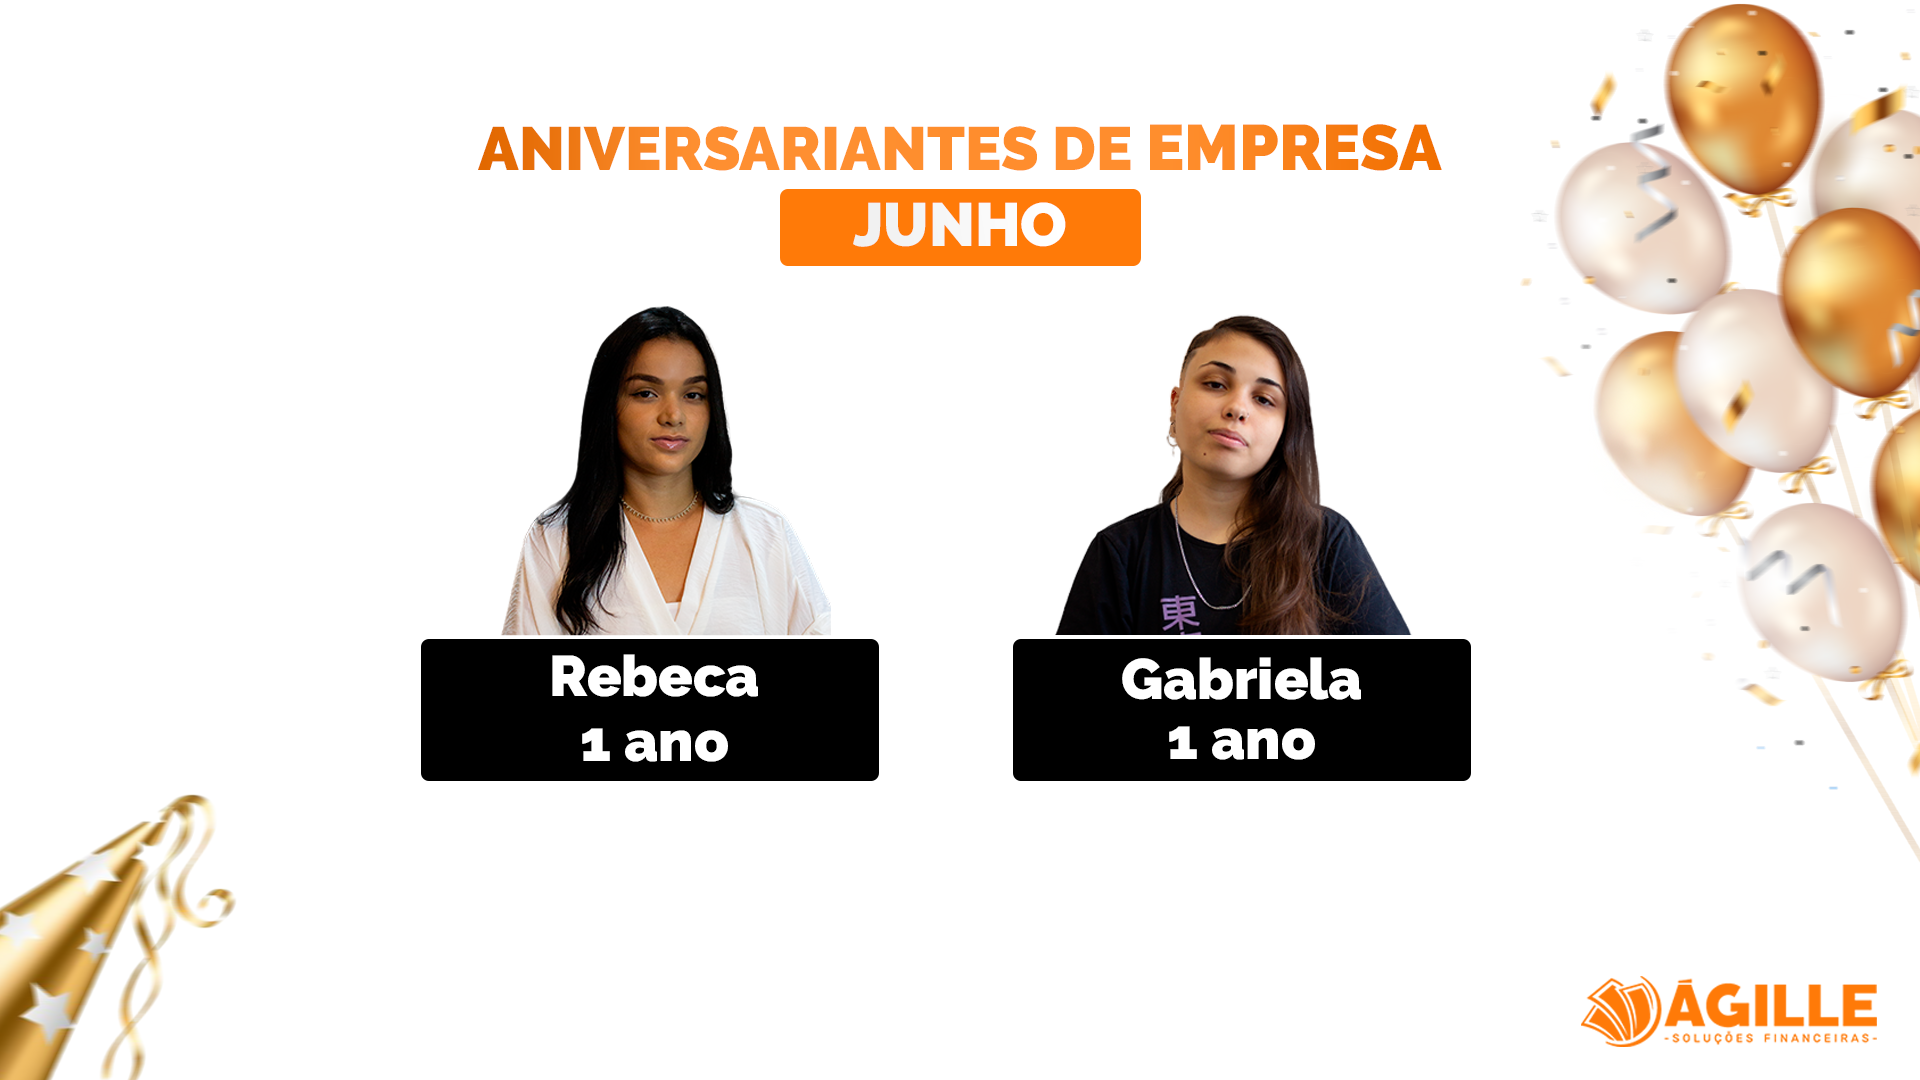
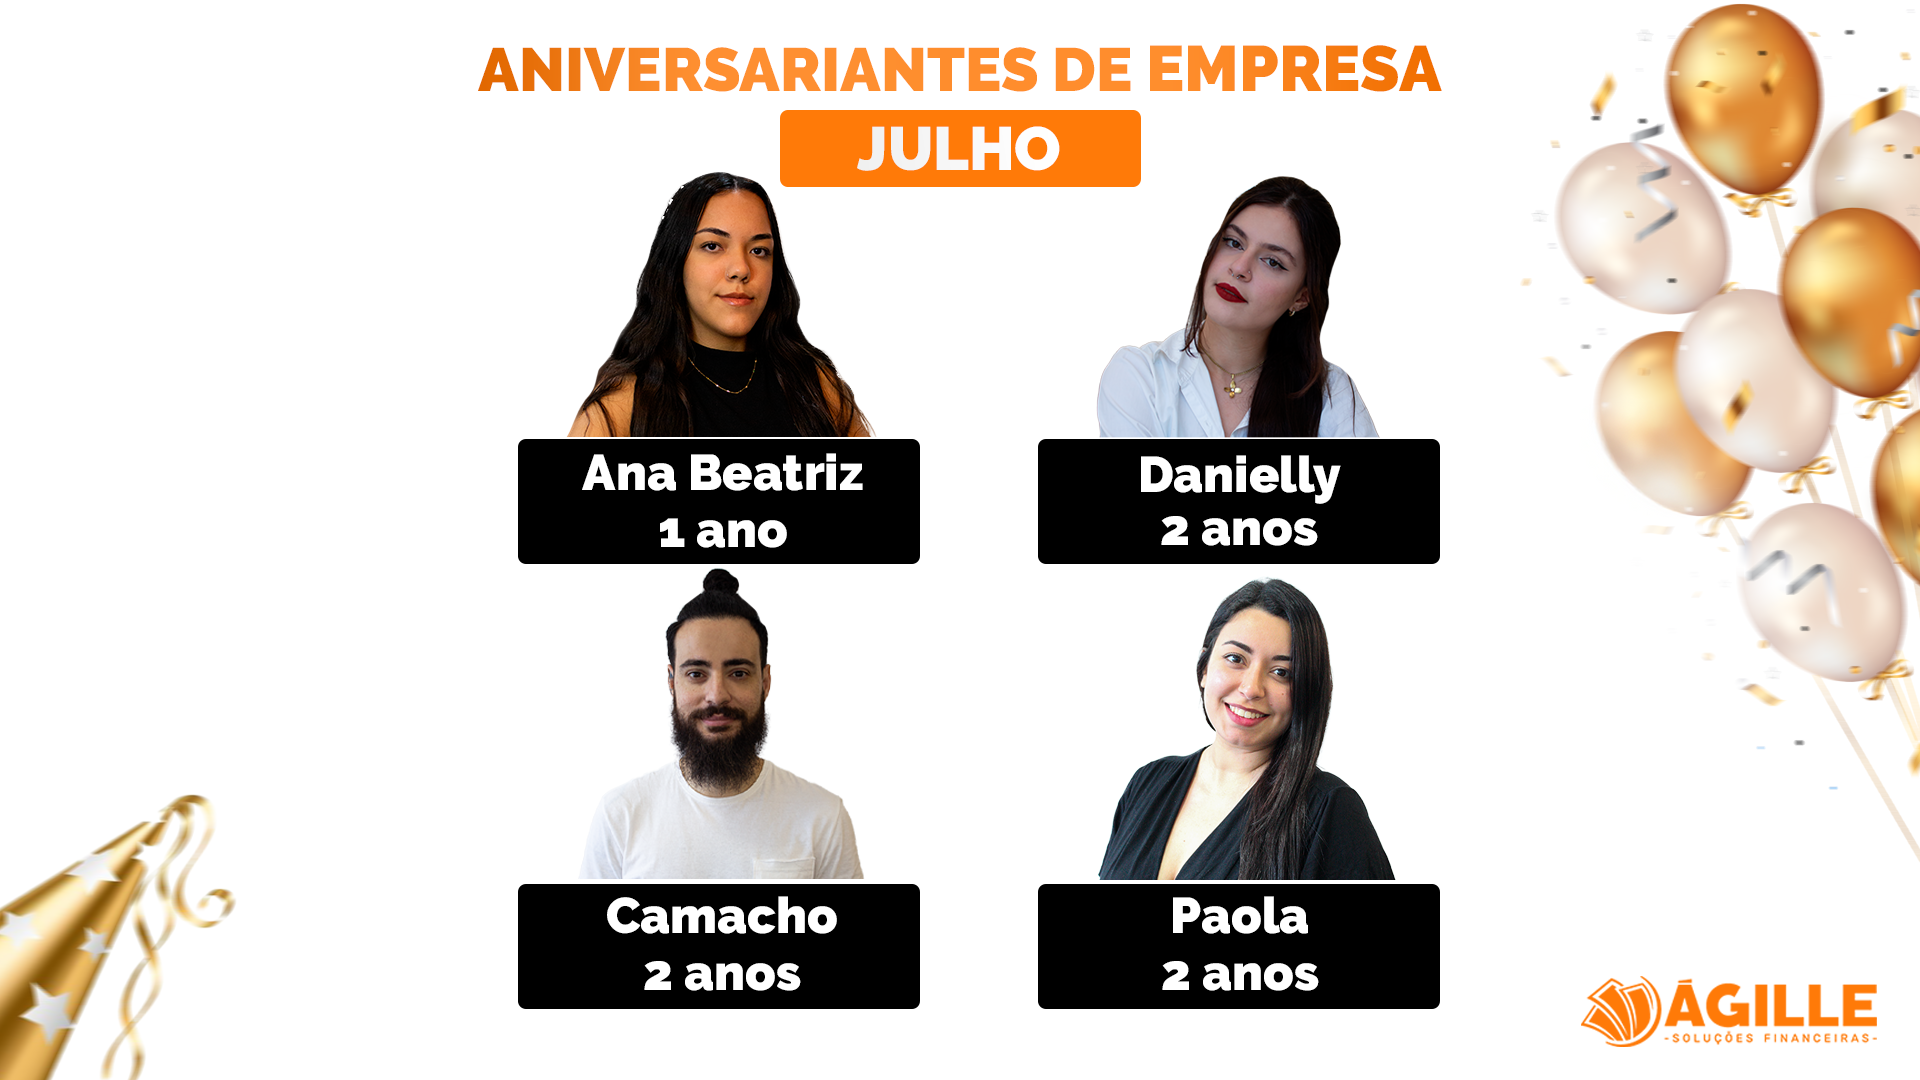
att julho

Changed region(s): [[0.2188, 0.0306, 0.7812, 0.9472]]

diff --git a/index.html b/index.html
@@ -27,25 +27,7 @@
 				<img src="img/aniversariantes-empresa.png" class="d-block w-100">
 			</div>
 			<div class="carousel-item" data-bs-interval="15000">
-				<img src="img/festa-junina.png" class="d-block w-100">
-			</div>
-			<div class="carousel-item" data-bs-interval="15000">
-				<img src="img/semana-do-meio-ambiente.png" class="d-block w-100">
-			</div>
-			<div class="carousel-item" data-bs-interval="15000">
-				<img src="img/dia-do-rh-e-dp.png" class="d-block w-100">
-			</div>
-			<div class="carousel-item" data-bs-interval="15000">
-				<img src="img/dia-dos-namorados.png" class="d-block w-100">
-			</div>
-			<div class="carousel-item" data-bs-interval="15000">
-				<img src="img/dia-doador-de-sangue.png" class="d-block w-100">
-			</div>
-			<div class="carousel-item" data-bs-interval="15000">
-				<img src="img/corpus-christi.png" class="d-block w-100">
-			</div>
-			<div class="carousel-item" data-bs-interval="15000">
-				<img src="img/dia-internacional-orgulho-lgbt.png" class="d-block w-100">
+				<img src="img/festa-julina.png" class="d-block w-100">
 			</div>
 			<div class="carousel-item" data-bs-interval="15000">
 				<img src="img/chaveamento-dardos.png" class="d-block w-100">
@@ -82,7 +64,9 @@
 		<input type="button" value="Quer tela cheia?"
 			onclick="requestFullScreen()">
 		<p id="update"></p>
-	</footer>
+	</footer>7
+
+
 	<script src="script.js"></script>
 </body>
 
